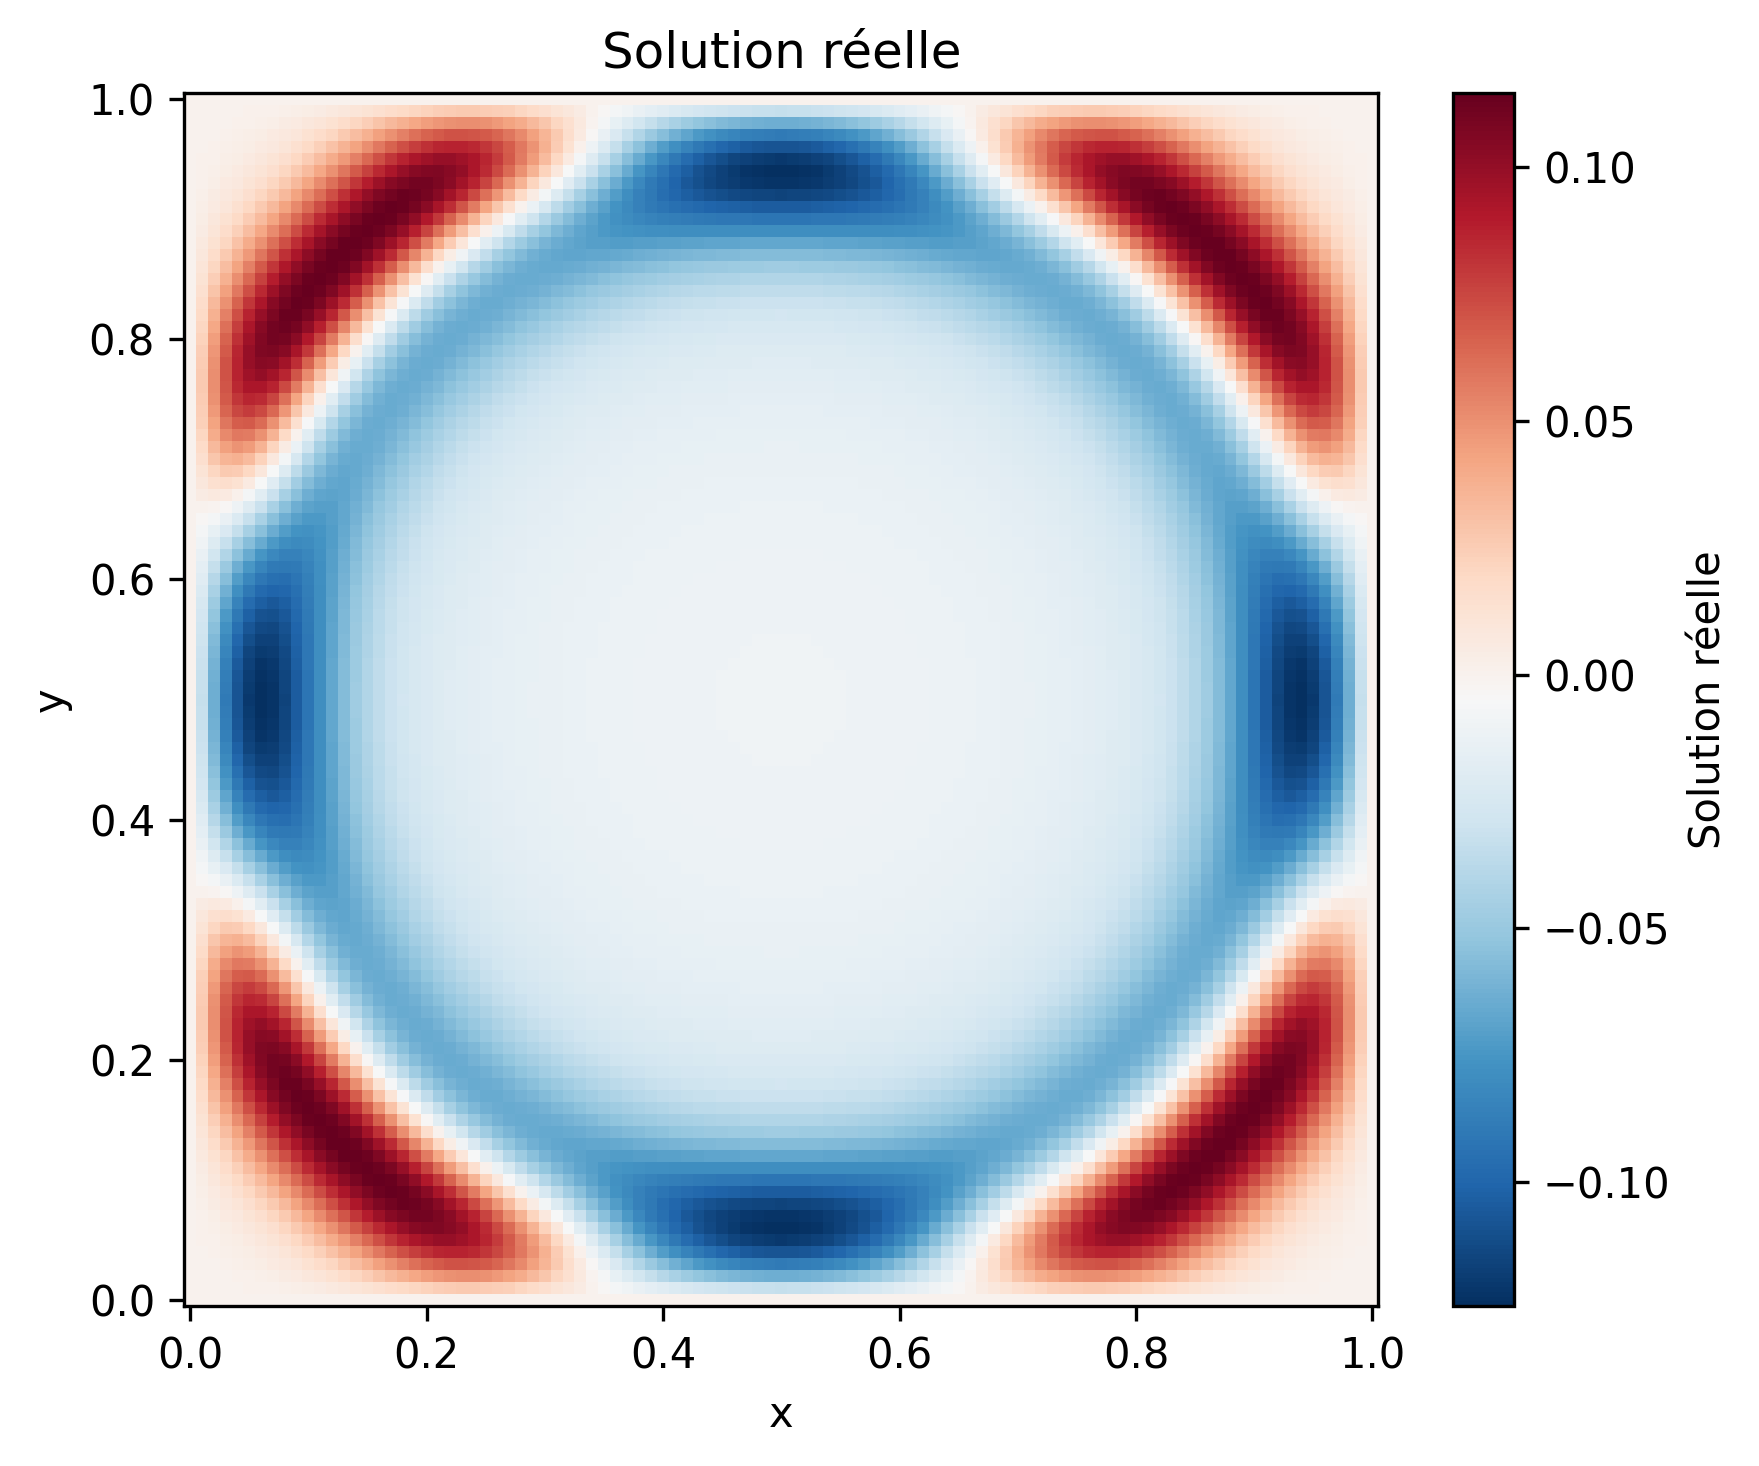
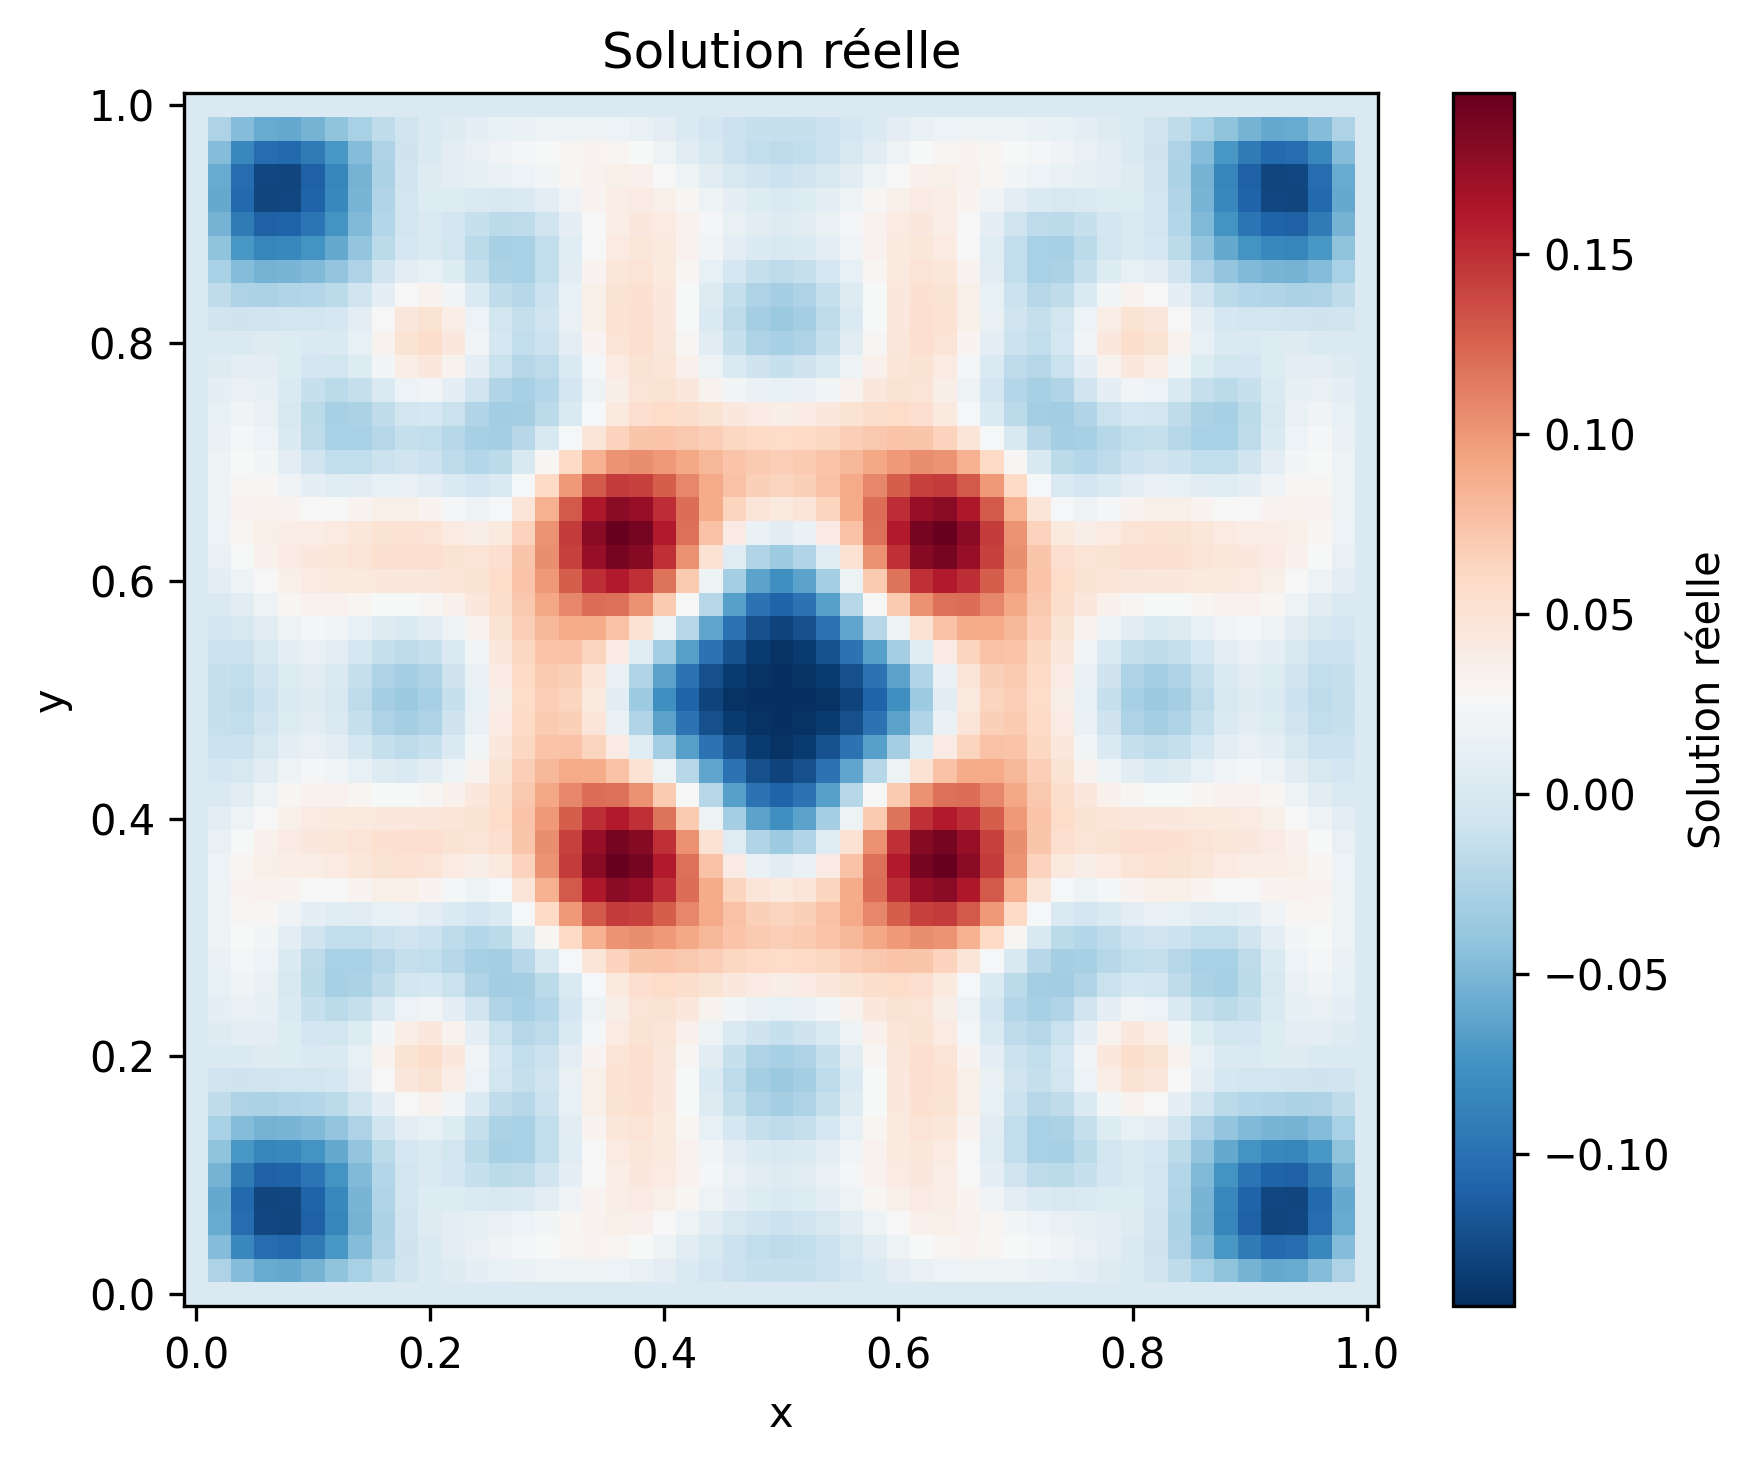
[TODO] refactoring et test avec données initiales à faire

diff --git a/experiment_runner.py b/experiment_runner.py
@@ -1,0 +1,159 @@
+import numpy as np
+import matplotlib.pyplot as plt
+from direct_solver.wave2D_direct_solver import solve_wave_2d
+from observation.mask import get_mask 
+from observation.measurement import compute_velocity, extract_observed_velocity
+from inverse_solver.bfn import run_bfn_algorithm
+
+def run_single_experiment(config, params):
+    """
+    Exécute une simulation complète avec des paramètres spécifiques.
+    params: dictionnaire contenant les surcharges (T, mask_type, gamma, noise_level)
+    """
+    # 1. Récupération des paramètres (surcharge ou défaut)
+    T_exp = params.get("T", config.T)
+    nt_exp = int(T_exp / config.dt) # Recalcul du nombre de pas de temps
+    mask_type = params.get("mask_type", "full")
+    gamma_bfn = params.get("gamma_bfn", config.gamma_bfn)
+    noise_level = params.get("noise_level", 0.0)
+    
+    print(f"--- Lancement: Masque={mask_type}, T={T_exp}, Gamma={gamma_bfn}, Bruit={noise_level} ---")
+
+    # 2. Simulation DIRECTE (La Vérité)
+    # On utilise les mêmes conditions initiales u0, v0 définies globalement ou passées en arg
+    # Ici on suppose que u0 et v0 sont générés comme dans votre main original
+    # (Je recrée u0 ici pour l'exemple, mais idéalement passez-le en argument)
+    sol, used_dt = solve_wave_2d(config.u0, config.v0, config.c0, config.dx, config.dt, nt_exp)
+    
+    # 3. OBSERVATION
+    mask = get_mask(config.X, config.Y, config.Lx, config.Ly, mask_type, ratio=params.get("ratio", 0.1))
+
+    # Conversion explicite pour l'extraction
+    mask_bool = mask.astype(bool) 
+
+    v_all = compute_velocity(sol, used_dt)
+
+    # Utiliser mask_bool pour l'extraction
+    v_obs = extract_observed_velocity(v_all, mask_bool)
+    
+    # Ajout du BRUIT (Expérience 4)
+    if noise_level > 0:
+        amplitude = np.max(np.abs(v_all))
+        noise = noise_level * amplitude * np.random.normal(size=v_all.shape)
+        v_all = v_all + noise
+        
+    #v_obs = extract_observed_velocity(v_all, mask)
+    v_obs = extract_observed_velocity(v_all, mask_bool)
+    
+    # 4. RÉSOLUTION INVERSE (BFN)
+    u0_guess = np.zeros_like(config.u0)
+    v0_guess = np.zeros_like(config.v0)
+    
+    u0_rec, v0_rec, conv_hist = run_bfn_algorithm(
+        u0_guess, v0_guess, config.c0, config.dx, used_dt, nt_exp,
+        mask, v_obs, gamma_bfn, num_iterations=config.n_iter
+    )
+    
+    # 5. CALCUL D'ERREUR
+    # Erreur relative L2 sur la condition initiale
+    error_L2 = np.linalg.norm(config.u0 - u0_rec) / np.linalg.norm(config.u0)
+    
+    return {
+        "params": params,
+        "conv_hist": conv_hist,
+        "error_L2": error_L2,
+        "u0_rec": u0_rec,
+        "mask": mask
+    }
+
+# --- Configuration de base (classe simple pour stocker les constantes) ---
+class Config:
+    def __init__(self):
+        self.Lx, self.Ly = 1.0, 1.0
+        self.nx, self.ny = 101, 101
+        self.T = 0.5
+        self.c0 = 1.0
+        self.dt = self.T / 400
+        self.dx = self.Lx / (self.nx - 1)
+        self.gamma_bfn = 0.5
+        self.n_iter = 15 # Un peu plus pour bien voir la convergence
+        
+        # Maillage
+        x = np.linspace(0, self.Lx, self.nx)
+        y = np.linspace(0, self.Ly, self.ny)
+        self.X, self.Y = np.meshgrid(x, y, indexing='ij')
+        
+        # Condition initiale (Gaussienne)
+        sigma = 0.05 * self.Lx
+        x0, y0 = 0.5 * self.Lx, 0.5 * self.Ly
+        self.u0 = np.exp(-((self.X - x0)**2 + (self.Y - y0)**2) / (2 * sigma**2))
+        self.v0 = np.zeros_like(self.u0)
+
+cfg = Config()
+
+# ==========================================
+# DÉFINITION DES SCÉNARIOS
+# ==========================================
+scenarios = [
+    # --- Groupe 1 : Références & Géométries Classiques ---
+    # Référence absolue : on voit tout, pas de bruit
+    {"name": "Ref Full",      "T": 1.0, "mask_type": "full",      "ratio": 0.0, "noise_level": 0.0},
+    # Uniquement un cadre autour (épaisseur 10%)
+    {"name": "Geo Borders",   "T": 1.0, "mask_type": "borders",   "ratio": 0.1, "noise_level": 0.0},
+    # Uniquement le mur de gauche (10% de la largeur)
+    {"name": "Geo LeftWall",  "T": 1.0, "mask_type": "left_wall", "ratio": 0.1, "noise_level": 0.0},
+
+    # --- Groupe 2 : "Trou au Centre" ---
+    # Votre cas de base : on voit tout sauf 20% au centre. (Devrait converger très vite)
+    {"name": "Hole Standard", "T": 1.0, "mask_type": "hole_center", "ratio": 0.2, "noise_level": 0.0},
+    # Cas difficile : on ne voit RIEN sur 60% du centre. (Convergence plus lente attendue)
+    {"name": "Hole Large",    "T": 1.0, "mask_type": "hole_center", "ratio": 0.6, "noise_level": 0.0},
+    
+    # --- Groupe 3 : Horizon Temporel (Test sur un cas difficile 'LeftWall') ---
+    # Temps trop court : l'onde n'a pas le temps d'atteindre le capteur gauche -> Échec
+    {"name": "Time Short",    "T": 0.4, "mask_type": "left_wall", "ratio": 0.1, "noise_level": 0.0},
+    # Temps long : l'onde a le temps de faire des allers-retours -> Succès
+    {"name": "Time Long",     "T": 2.0, "mask_type": "left_wall", "ratio": 0.1, "noise_level": 0.0},
+    
+    # --- Groupe 4 : Robustesse au Bruit (sur config 'Hole Standard') ---
+    # Bruit faible (10%) sur votre config standard
+    {"name": "Hole Noise 10%", "T": 1.0, "mask_type": "hole_center", "ratio": 0.2, "noise_level": 0.1},
+    # Bruit fort (50%) sur votre config standard
+    {"name": "Hole Noise 50%", "T": 1.0, "mask_type": "hole_center", "ratio": 0.2, "noise_level": 0.5},
+]
+
+results = {}
+
+# ==========================================
+# BOUCLE D'EXÉCUTION
+# ==========================================
+print(f"Démarrage de {len(scenarios)} expériences...")
+
+for s in scenarios:
+    name = s["name"]
+    # On fusionne les params spécifiques avec la config par défaut
+    res = run_single_experiment(cfg, s)
+    results[name] = res
+
+# ==========================================
+# VISUALISATION COMPARATIVE
+# ==========================================
+plt.figure(figsize=(10, 6))
+
+for name, res in results.items():
+    hist = res["conv_hist"]
+    plt.semilogy(hist, label=f"{name} (Err Fin: {res['error_L2']:.2e})", linewidth=2)
+
+plt.title("Comparaison de la convergence BFN")
+plt.xlabel("Itérations")
+plt.ylabel("Log(Norme de mise à jour)")
+plt.legend()
+plt.grid(True, which="both", ls="--")
+plt.savefig("data/benchmark_convergence.png")
+plt.show()
+
+# Affichage des erreurs géométriques pour le cas "Left Wall"
+if "Geo LeftWall" in results:
+    from visualization.plot_fields import plot_field
+    err = cfg.u0 - results["Geo LeftWall"]["u0_rec"]
+    plot_field(cfg.X, cfg.Y, err, title="Erreur Spatiale - Mur Gauche")

diff --git a/main_simulation.py b/main_simulation.py
@@ -1,9 +1,9 @@
 import numpy as np
 import matplotlib.pyplot as plt
 
-from config import Lx, Ly, nx, ny, T, nt, c0
+from config import Lx, Ly, nx, ny, T, nt, c0, gamma_bfn, n_iter
 from direct_solver.wave2D_direct_solver import solve_wave_2d
-from direct_solver.direct_observer import solve_observer_wave_2d, compute_error_energy
+from direct_solver.direct_observer import solve_direct_observer, compute_error_energy
 from observation.mask import create_observation_mask
 from observation.measurement import compute_velocity, extract_observed_velocity
 from visualization.save_utils import ensure_data_folder, save_figure
@@ -57,12 +57,12 @@ plot_results(x, y, X, Y, u0, sol, used_dt, Lx, Ly)
 # Animation GIF de la propagation
 # ======================================================
 print("\nCréation du GIF d'animation...")
-animate_wave(X, Y, sol, used_dt)
+#animate_wave(X, Y, sol, used_dt)
 
 # ======================================================
 # Domaine d’observation D_obs 
 # ======================================================
-mask_obs = create_observation_mask(X, Y, Lx, Ly)
+mask_obs = create_observation_mask(X, Y, Lx, Ly, center_frac=0.8)
 plot_mask(X, Y, mask_obs, save=True)
 
 # ======================================================
@@ -88,10 +88,7 @@ print("\nLancement de l'observateur direct...")
 u0_hat = np.zeros_like(u0)
 v0_hat = np.zeros_like(u0)
 
-gamma = 0.2 # gain de rétroaction
-
-sol_hat = solve_observer_wave_2d(u0_hat, v0_hat, c0, dx, used_dt, nt, mask_obs, v_obs, gamma)
-
+sol_hat = solve_direct_observer(u0_hat, v0_hat, c0, dx, used_dt, nt, mask_obs, v_obs, gamma_bfn)
 plot_field(X, Y, sol[-1], title="Solution réelle")
 plot_field(X, Y, sol_hat[-1], title="Solution observée")
 
@@ -120,14 +117,11 @@ print("\nLancement de l'algorithme BFN complet...")
 u0_guess = np.zeros_like(u0)
 v0_guess = np.zeros_like(v0)
 
-# Nombre d'itérations BFN
-n_iter = 5
-gamma_bfn = 0.5  # Parfois on prend un gamma un peu plus fort
-
 u0_rec, v0_rec, conv_hist = run_bfn_algorithm(
-    u0_guess, v0_guess, c0, dx, used_dt, nt, 
+    u0_guess, v0_guess, sol_hat[0] , c0, dx, used_dt, nt, 
     mask_obs, v_obs, gamma_bfn, num_iterations=n_iter
-)
+) #u0 
+print(len(u0_rec))
 
 # Visualisation de la reconstruction
 plot_field(X, Y, u0, title="Condition Initiale Réelle (u0)")
@@ -145,3 +139,7 @@ plt.ylabel("Norme de la mise à jour (||u_{k+1} - u_k||)")
 plt.grid(True)
 plt.savefig("data/bfn_convergence.png")
 plt.show()
+
+# TO DO : ajouter un test avec les bonnes données initiales , observer que l'erreur est "nulle" (û=u)
+# TO DO : cas d'une zone d'observation qui ne respecte pas la CG 
+# TO DO : check si je divise bine par dt le terme source 

diff --git a/inverse_solver/bfn.py b/inverse_solver/bfn.py
@@ -1,8 +1,8 @@
 import numpy as np
-from direct_solver.direct_observer import solve_observer_wave_2d
-from inverse_solver.wave2D_inverse_solution import solve_backward_observer
+from direct_solver.direct_observer import solve_direct_observer
+from inverse_solver.wave2D_inverse_solver import solve_backward_observer
 
-def run_bfn_algorithm(u0_guess, v0_guess, c, dx, dt, nt, mask_obs, v_obs, gamma, num_iterations=10):
+def run_bfn_algorithm(u0_guess, v0_guess, u0_orig, c, dx, dt, nt, mask_obs, v_obs, gamma, num_iterations=10):
     """
     Algorithme BFN avec résolution explicite rétrograde en t.
     """
@@ -16,7 +16,7 @@ def run_bfn_algorithm(u0_guess, v0_guess, c, dx, dt, nt, mask_obs, v_obs, gamma,
     for k in range(num_iterations):
         # 1. Forward (Observateur Direct) -> de 0 à T
         # On utilise ta fonction existante
-        sol_fwd = solve_observer_wave_2d(
+        sol_fwd = solve_direct_observer(
             uk, vk, c, dx, dt, nt, 
             mask_obs, v_obs, gamma, 
             enforce_dt_safety=False
@@ -39,7 +39,7 @@ def run_bfn_algorithm(u0_guess, v0_guess, c, dx, dt, nt, mask_obs, v_obs, gamma,
         v_0_new = (sol_bwd[1] - sol_bwd[0]) / dt
         
         # Convergence monitoring
-        diff = np.linalg.norm(u_0_new - uk)
+        diff = np.linalg.norm(u_0_new - u0_orig) #(u_0_new - uk)
         history.append(diff)
         print(f"Iter {k+1}: update norm = {diff:.4e}")
         
@@ -47,4 +47,5 @@ def run_bfn_algorithm(u0_guess, v0_guess, c, dx, dt, nt, mask_obs, v_obs, gamma,
         uk = u_0_new
         vk = v_0_new
         
+        # TO DO : ajouter sur la vitesse
     return uk, vk, history

diff --git a/observation/mask.py b/observation/mask.py
@@ -11,3 +11,47 @@ def create_observation_mask(X, Y, Lx, Ly, center_frac=0.2):
     y_max = (0.5 + center_frac/2) * Ly
     mask_center = (X >= x_min) & (X <= x_max) & (Y >= y_min) & (Y <= y_max)
     return ~mask_center
+
+def get_mask(X, Y, Lx, Ly, mask_type="full", ratio=0.1):
+    """
+    Génère différents types de masques d'observation.
+    ratio : épaisseur des bords relative à la taille du domaine
+    """
+    mask = np.zeros_like(X)
+    
+    if mask_type == "full":
+        mask[:] = 1.0
+        
+    elif mask_type == "hole_center":
+        center_frac = ratio
+        
+        x_min = (0.5 - center_frac/2) * Lx
+        x_max = (0.5 + center_frac/2) * Lx
+        y_min = (0.5 - center_frac/2) * Ly
+        y_max = (0.5 + center_frac/2) * Ly
+        
+        # On définit le centre
+        mask_center = (X >= x_min) & (X <= x_max) & (Y >= y_min) & (Y <= y_max)
+        
+        # On inverse : 1 partout SAUF au centre
+        mask = np.logical_not(mask_center).astype(float)
+
+    elif mask_type == "borders":
+        # Cadre autour du domaine
+        mask[X < ratio*Lx] = 1
+        mask[X > (1-ratio)*Lx] = 1
+        mask[Y < ratio*Ly] = 1
+        mask[Y > (1-ratio)*Ly] = 1
+        
+    elif mask_type == "left_wall":
+        # Uniquement le mur de gauche
+        mask[X < ratio*Lx] = 1
+        
+    elif mask_type == "corners":
+        # Juste les 4 coins
+        mask[(X < ratio*Lx) & (Y < ratio*Ly)] = 1
+        mask[(X > (1-ratio)*Lx) & (Y < ratio*Ly)] = 1
+        mask[(X < ratio*Lx) & (Y > (1-ratio)*Ly)] = 1
+        mask[(X > (1-ratio)*Lx) & (Y > (1-ratio)*Ly)] = 1
+
+    return mask

diff --git a/direct_solver/direct_observer.py b/direct_solver/direct_observer.py
@@ -1,7 +1,7 @@
 import numpy as np
 from .wave2D_direct_solver import laplacian, initialize_wave_solution
 
-def solve_observer_wave_2d(u0_hat, v0_hat, c, dx, dt, nt, mask_obs, v_obs, gamma, enforce_dt_safety=True):
+def solve_direct_observer(u0_hat, v0_hat, c, dx, dt, nt, mask_obs, v_obs, gamma, enforce_dt_safety=True):
     """
     Observateur direct pour l'équation des ondes 2D :
 

diff --git a/config.py b/config.py
@@ -2,11 +2,14 @@
 Lx, Ly = 1.0, 1.0
 
 # Maillage
-nx, ny = 101, 101
+nx, ny = 51,51 #101, 101
 
 # Durée et pas de temps
-T = 0.5
+T = 3 # 0.5
 nt = 400
 
 # Vitesse de propagation
 c0 = 1.0
+
+gamma_bfn = 1 # 1 # 0.5 # gain pour le BFN
+n_iter = 10 # nombre d'itérations pour le BFN
